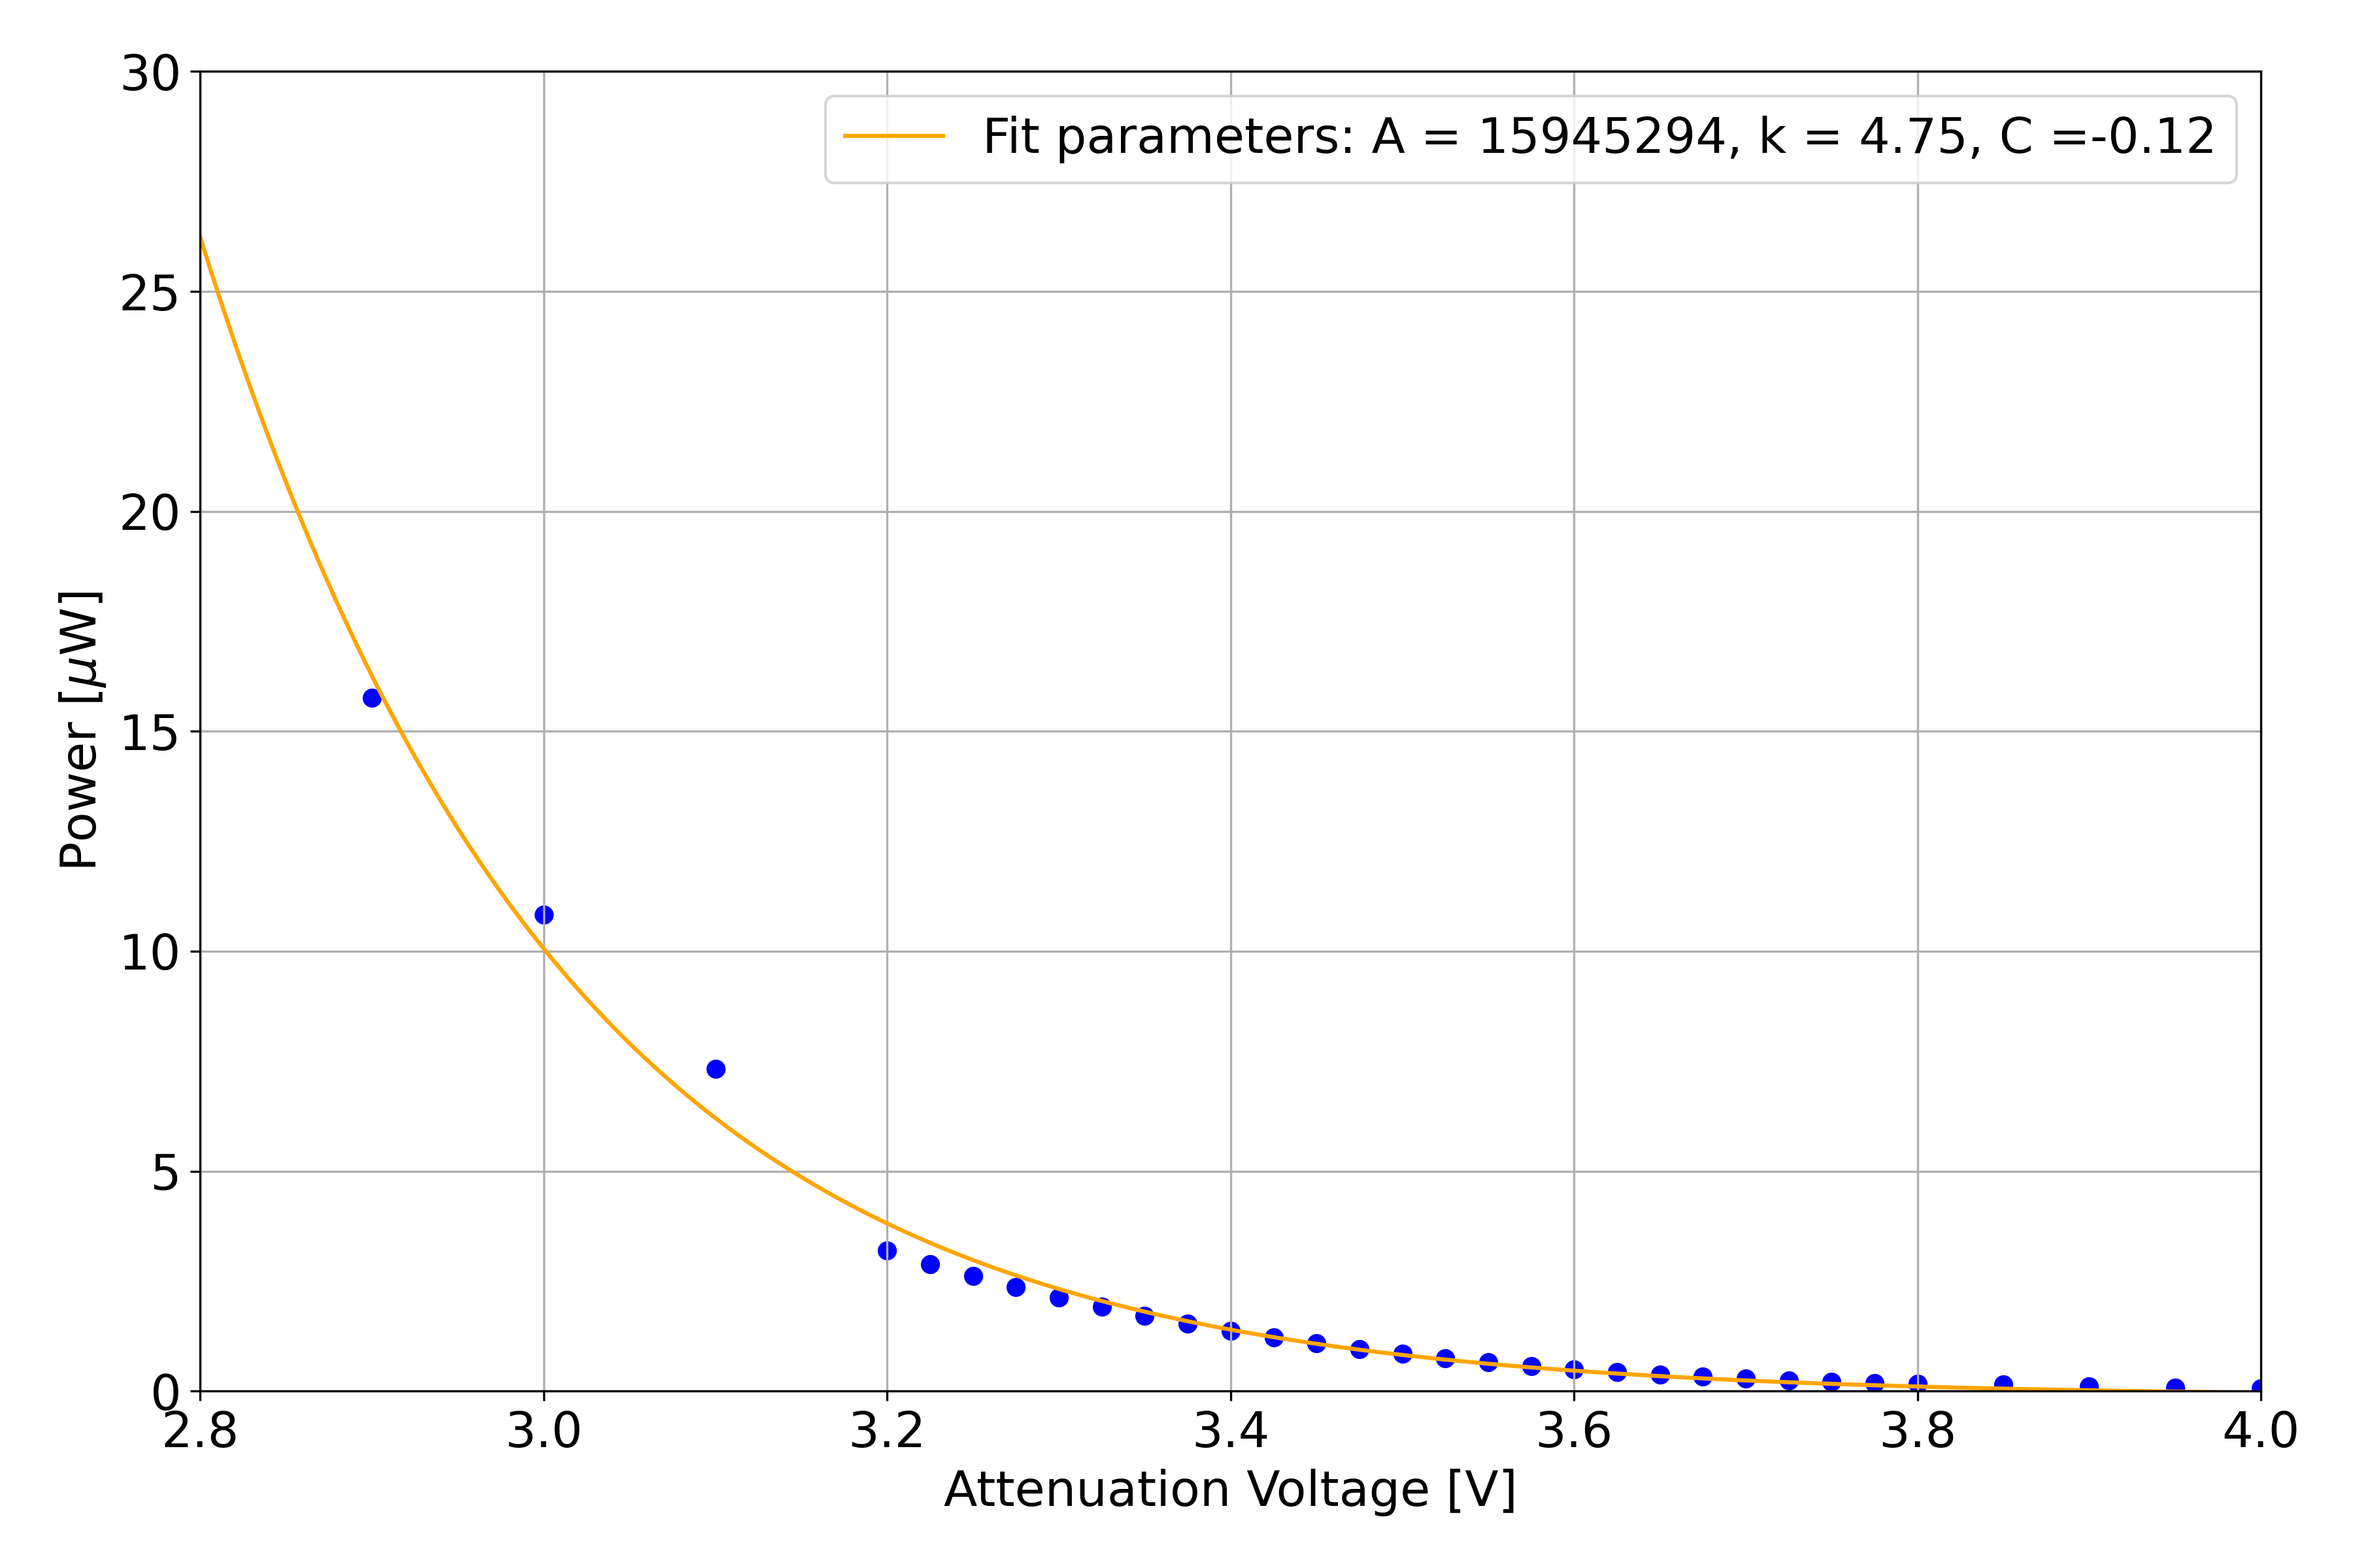
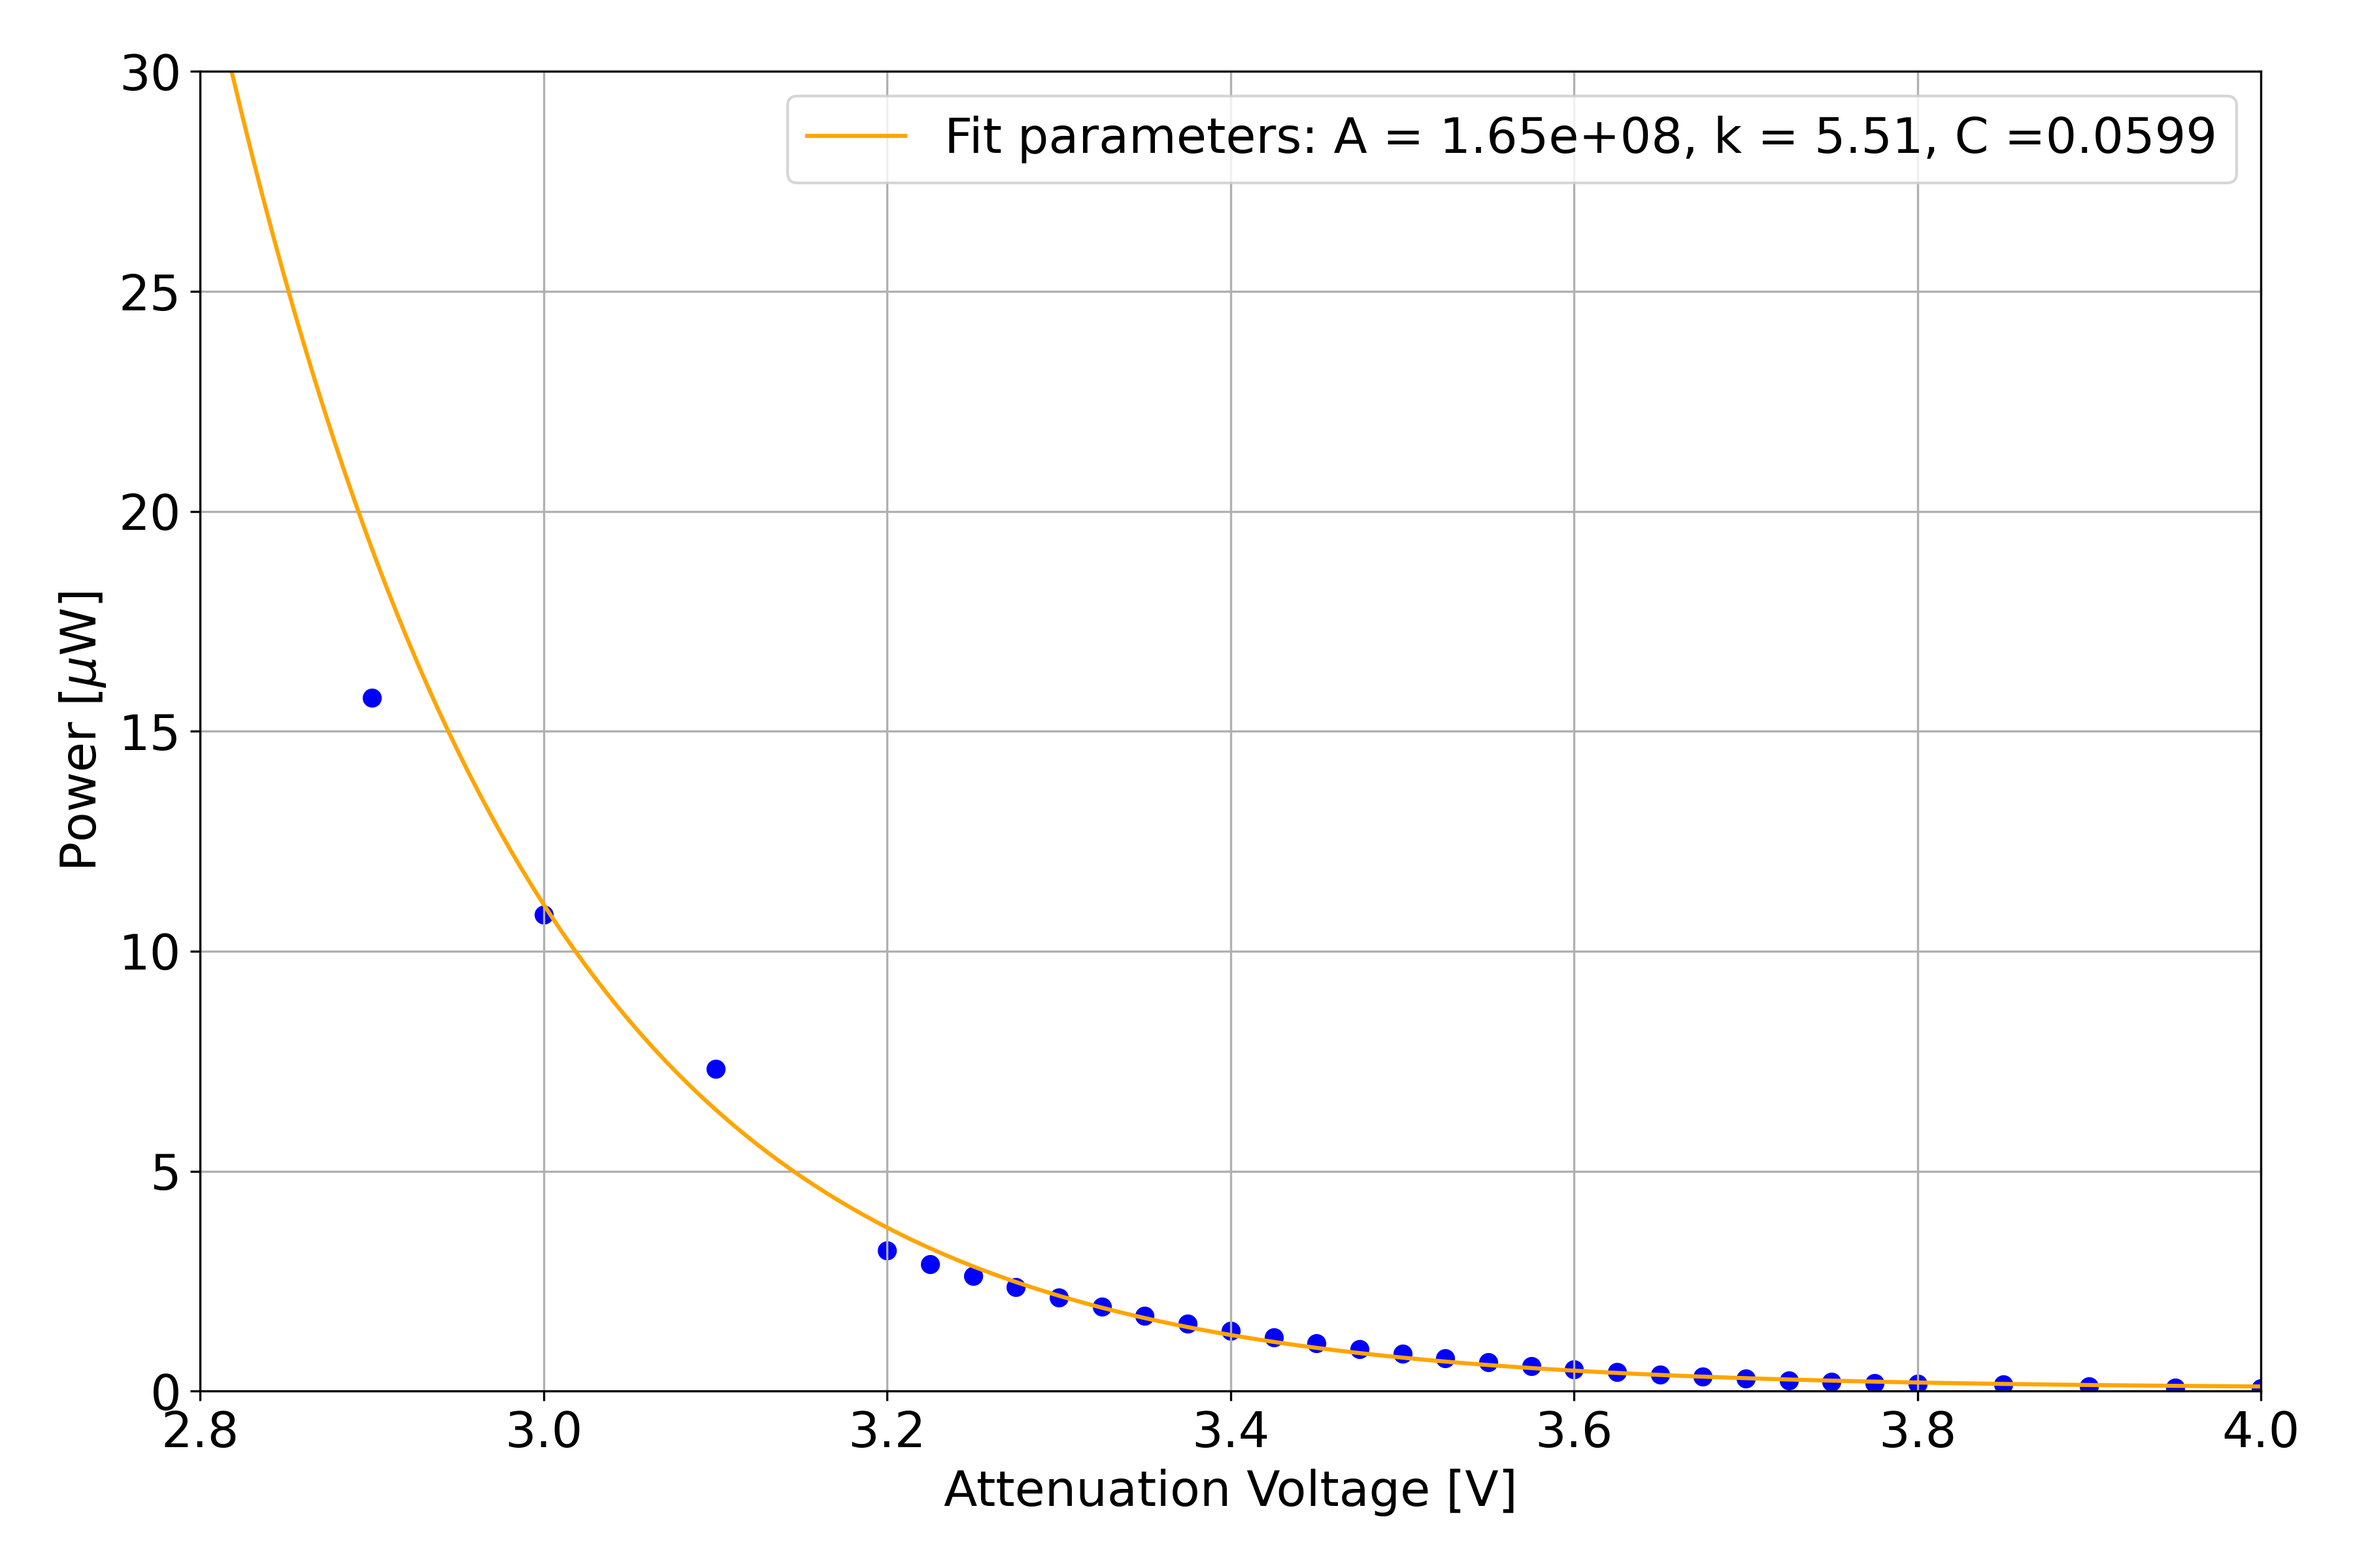
Update plotting functions and enable saving of Power vs Voltage graph

diff --git a/timepix4/laser_power/fit_curve.py b/timepix4/laser_power/fit_curve.py
@@ -39,7 +39,7 @@ def fit_curve(df: pd.DataFrame, V_ref: float):
     Vfine = np.linspace(2.8, 4.0, 200)
     plt.figure(figsize=(12, 8))
     plt.scatter(df_copy["V"].to_numpy(), df_copy["power"].to_numpy(), marker="o", color="b")
-    plt.plot(Vfine, fit_func(Vfine, *popt), linestyle="-", color="orange", label=f"Fit parameters: A = {popt[0]:.0f}, k = {popt[1]:.2f}, C ={popt[2]:.2f}")
+    plt.plot(Vfine, fit_func(Vfine, *popt), linestyle="-", color="orange", label=f"Fit parameters: A = {popt[0]:.3g}, k = {popt[1]:.3g}, C ={popt[2]:.3g}")
     plt.xlabel("Attenuation Voltage [V]")
     plt.ylabel("Power [$\mu$W]")
     plt.xlim(2.8, 4)
@@ -48,14 +48,14 @@ def fit_curve(df: pd.DataFrame, V_ref: float):
     # plt.title("Power vs Voltage")
     plt.grid()
     plt.tight_layout()
-    # plt.savefig("PowerVsVoltage.png", dpi=300)
+    plt.savefig("PowerVsVoltage.png", dpi=300)
     plt.show()
 
-    P_ref = fit_func(V_ref, *popt)
-    Vs = np.linspace(4.0, 2.9, int(round((4.0 - 2.9) / 0.025)) + 1)
-    Vs = np.round(Vs, 3)
-    factors = fit_func(Vs, *popt) / P_ref
-    lut = pd.DataFrame({"voltage": Vs, "relative_factor": factors})
-    lut.to_csv("lookup_table.csv", index=False)
+    # P_ref = fit_func(V_ref, *popt)
+    # Vs = np.linspace(4.0, 2.9, int(round((4.0 - 2.9) / 0.025)) + 1)
+    # Vs = np.round(Vs, 3)
+    # factors = fit_func(Vs, *popt) / P_ref
+    # lut = pd.DataFrame({"voltage": Vs, "relative_factor": factors})
+    # lut.to_csv("lookup_table.csv", index=False)
 
     # PlotRelativePower("lookup_table.csv")

diff --git a/LaserPower.py b/LaserPower.py
@@ -5,10 +5,10 @@ def main():
     filepath = "Data/Laser Power/Power.csv"
     # PowerVoltagePlot(filepath)
     # filepath = "Data/Laser Power/laser_power_933nm.csv"
-    # CreateLookupTable(filepath, 3.725)
+    CreateLookupTable(filepath, 3.725)
     # PlotRelativePower("lookup_table(230, 228).csv")
     # PlotLaserStability("Data/Laser Power/Laser Stability/Laser_over_time_6ke.csv")
-    PlotClosestVoltage("Data/Laser Measurements/Laser Measurements 1 (228, 230)1/1Results(230, 228).csv", 158)
+    # PlotClosestVoltage("Data/Laser Measurements/Laser Measurements 1 (228, 230)1/1Results(230, 228).csv", 158)
 
 if __name__ == "__main__":
     main()
